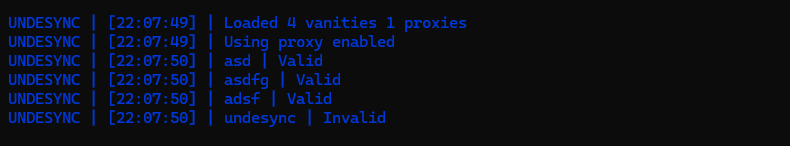
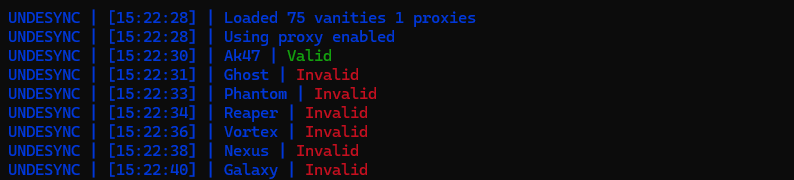
added colored output for valid/invalid vanities + proxy format info + able to configure delay

Changed region(s): [[0.0, 0.0548, 0.6076, 1.0], [0.4861, 0.0548, 0.5165, 0.0822]]

diff --git a/index.js b/index.js
@@ -28,19 +28,19 @@ function sleep(ms) { return new Promise(resolve => setTimeout(resolve, ms)); }
 
     const checkVanity = async (vanity) => {
         try {
-            await sleep(1000);
+            await sleep(config.checker.delay);
             const response = await axios.get(`https://canary.discord.com/api/v10/invites/${vanity}`, {
                 httpAgent: proxyAgent,
                 httpsAgent: proxyAgent
             });
 
-            logMessage(`${vanity} | Invalid`);
+            logMessage(`${chalk.blue(vanity)} | ${chalk.red('Invalid')}`);
             if (config.saves.enable && config.saves.invalids) {
                 fs.appendFileSync('data/Invalids.txt', `${vanity}\n`);
             }
         } catch (error) {
             if (error.response && error.response.data && error.response.data.code === 10006) {
-                logMessage(`${vanity} | Valid`);
+                logMessage(`${chalk.blue(vanity)} | ${chalk.green('Valid')}`);
                 if (config.saves.enable && config.saves.valids) {
                     fs.appendFileSync('data/Valids.txt', `${vanity}\n`);
                 }

diff --git a/README.md b/README.md
@@ -9,6 +9,7 @@ Using the discord api to check if a vanity url is available to use or is already
 
 ## Misc
 - You can change the delay on the line `31` in the `index.js` file.
+- Proxy format: `username:password@ip:port`
 
 ## Config
 ```json
